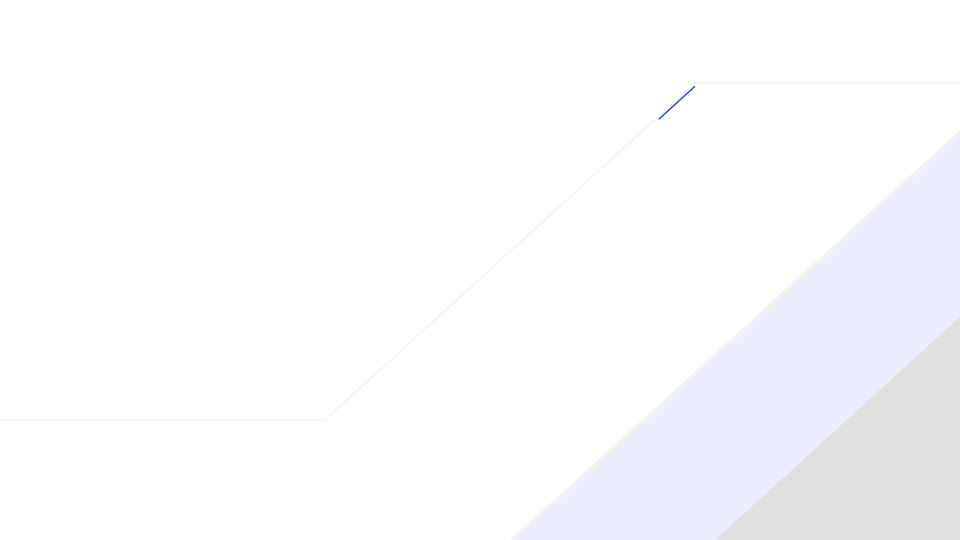
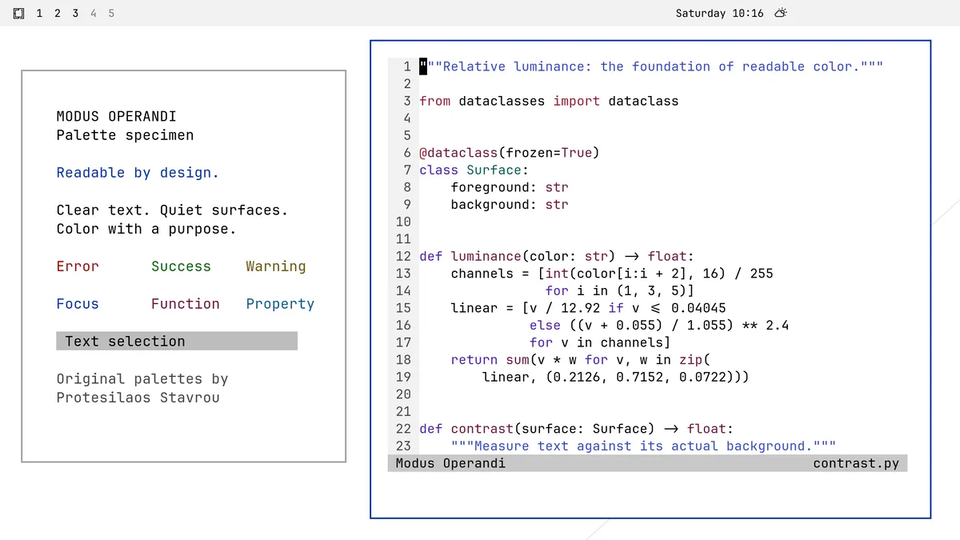
Use desktop screenshots for theme previews

diff --git a/README.md b/README.md
@@ -77,8 +77,8 @@ Some desktop surfaces need contextual adjustments:
 The wallpaper pair uses the same original vector geometry: spacious paper
 planes with a small blue registration line, without logos or fine texture.
 The SVG colors come from each variant's own palette. The files under
-`screenshots/` show real desktop sessions; each theme's `preview.png` previews
-only its wallpaper.
+`screenshots/` show real desktop sessions; the build derives each theme's
+`preview.png` from its matching desktop screenshot for Omarchy's theme picker.
 
 ## Coverage and limits
 
